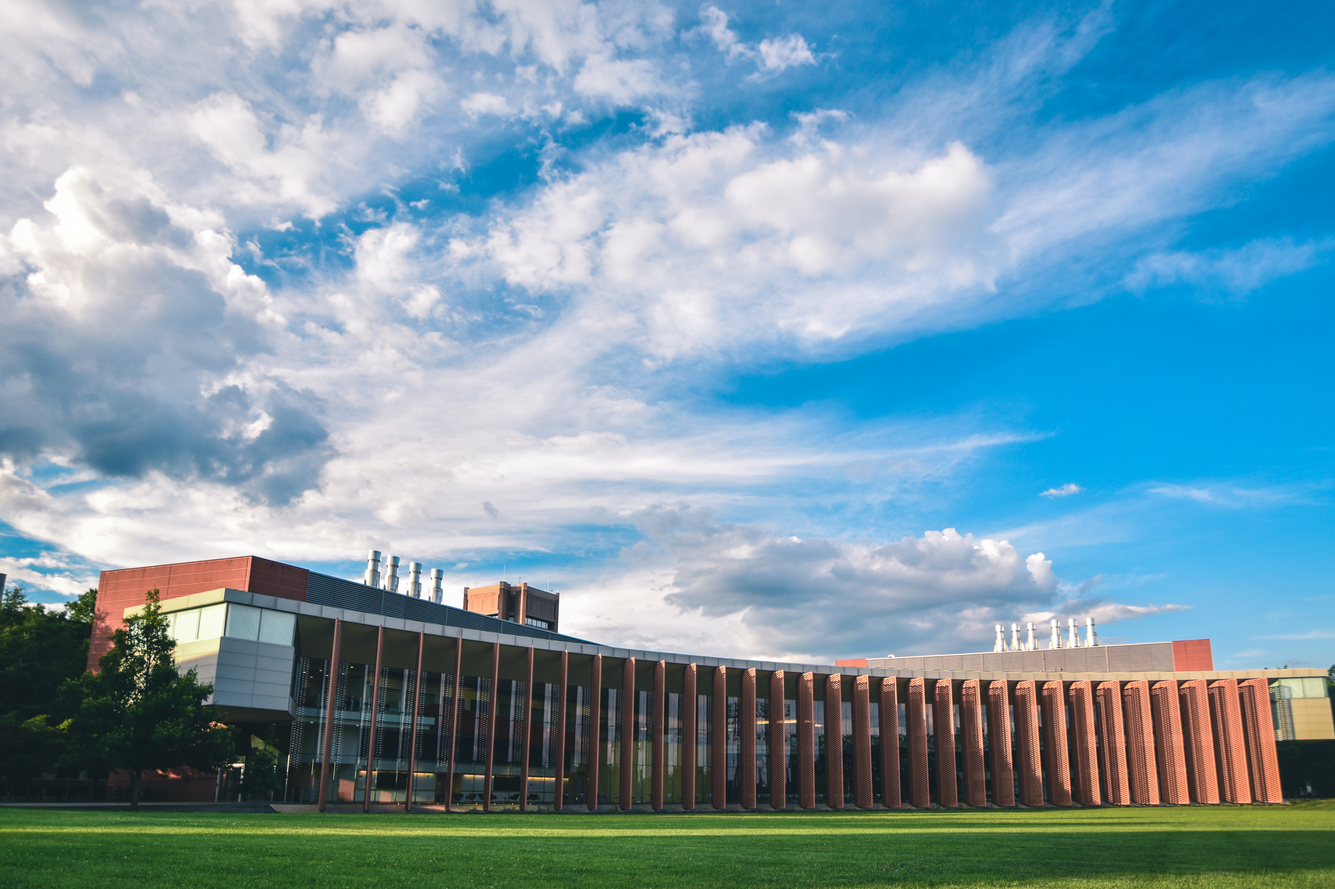
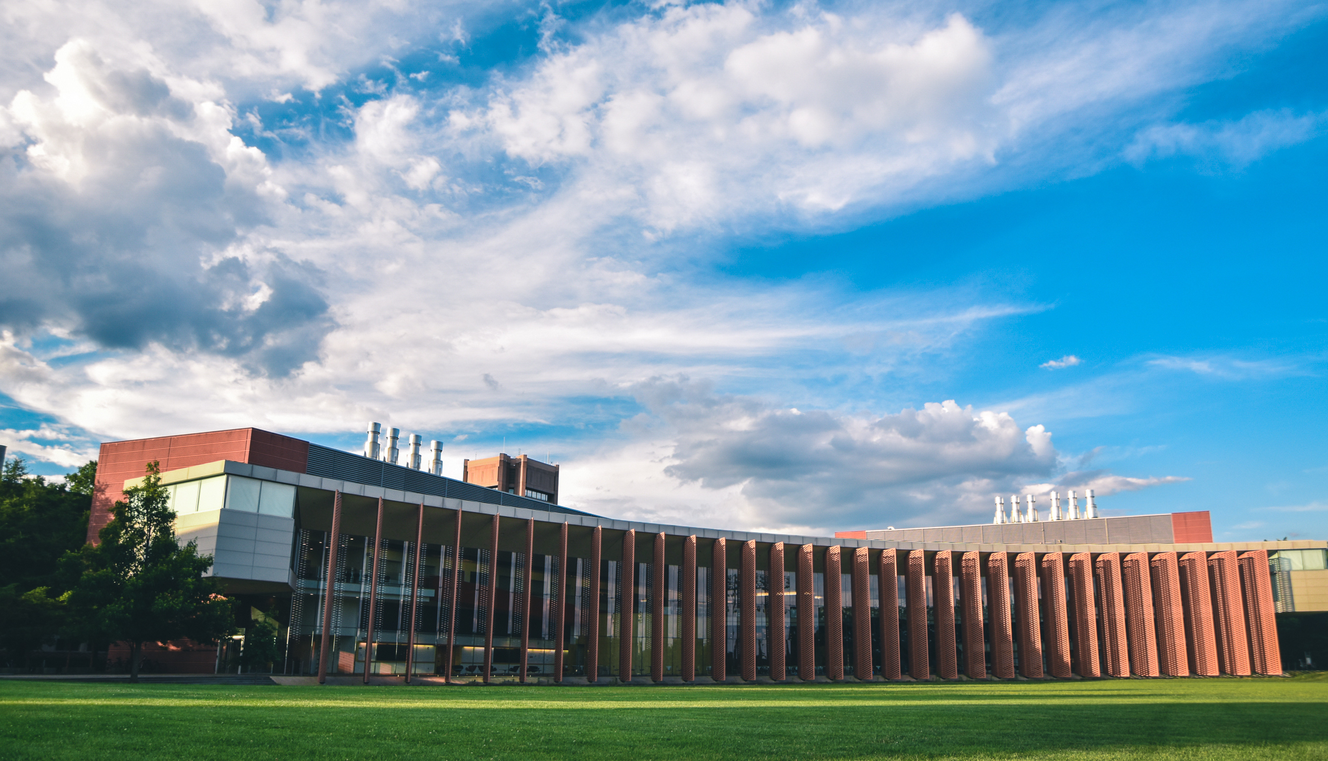
pruned navbar, changed background, added links, altered landing page

diff --git a/index.html b/index.html
@@ -67,7 +67,7 @@
         </div>
         <div id="navbar" class="navbar-collapse navbar-center collapse">
           <ul class="nav navbar-nav">
-            <li><a href="about.html">About</a></li>
+            <!-- <li><a href="about.html">About</a></li>
             <li class="dropdown"><a href="" data-toggle="dropdown" class="dropdown-toggle">Tournament Information <b class="caret"></b></a>
               <ul class="dropdown-menu">
                 <li><a href="awards.html">Awards Ceremony</a></li>
@@ -80,8 +80,8 @@
             </li>
             <li><a href="updates.html">Updates</a></li>
             <li><a href="team.html">The Team</a></li>
-            <li><a href="partners.html">Partners</a></li>
-            <li class="dropdown"><a href="past" data-toggle="dropdown" class="dropdown-toggle">Archive <b class="caret"></b></a>
+            <li><a href="partners.html">Partners</a></li>  -->
+            <li class="dropdown"><a href="past" data-toggle="dropdown" class="dropdown-toggle">Archive<b class="caret"></b></a>
               <ul class="dropdown-menu">
                 <li><a href="past-tests.html">Past Tests</a></li>
                 <li><a href="past/2017/index.html">2017 Site</a></li>
@@ -104,12 +104,14 @@
             <div class="row">
               <div class="col-lg-12">
                 <div class="content-slide">
-                  <h1 class="home-title">Princeton University</h1><br>
-                  <h1 class="home-title">Science Olympiad Invitational</h1>
-                  <h3 class="tournament-date">Coming February 10, 2018</h3><br>
+                  <h1 class="home-title">Princeton University<br/>Science Olympiad<br/>Invitational</h1>
+                  <!-- <h1 class="home-title">Princeton University</h1><br>
+                  <h1 class="home-title">Science Olympiad Invitational</h1> -->
+                  <h3 class="tournament-date">Stay tuned for 2019!</h3><br>
                   <div id="clock-countdown" class="animated bounceInDown" data-animation-delay="10000"></div>
-                  <a href="about.html"><button type="button" class="btn btn-main btn-orange">Learn More</button></a>
-                  <a href="dayof.html"><button type="button" class="btn btn-main btn-red">Day-Of Info</button></a>
+                  <p>Check out our previous years' competitions under the archive menu!</p>
+                  <!-- <a href="about.html"><button type="button" class="btn btn-main btn-orange">Learn More</button></a> -->
+                  <!-- <a href="dayof.html"><button type="button" class="btn btn-main btn-red">Day-Of Info</button></a> -->
                 </div>
               </div>
             </div>

diff --git a/past-tests.html b/past-tests.html
@@ -94,6 +94,11 @@
             <li><a href="https://www.dropbox.com/sh/1ty5q1157rd5uo0/AAD561wIEBSb728p0JcMy4rua?dl=0" target="_blank">Full tests and solutions with raw scores</a></li>
             <li><a href="https://www.facebook.com/pg/princetonscioly/photos/?tab=album&album_id=258292677930754" target="_blank">Photos</a></li>
           </ul>
+          <h2 class="section-subtitle">2018</h2>
+          <ul>
+            <li><a href="https://www.dropbox.com/sh/26udqtjmuhve046/AAAm9X6eIzqTvWqjlMlOl8dFa?dl=0" target="_blank">Full tests and solutions with raw scores</a></li>
+            <li><a href="https://www.facebook.com/pg/princetonscioly/photos/?tab=album&album_id=407535093006511" target="_blank">Photos</a></li>
+          </ul>
         </div>
       </div>
     </div>

diff --git a/past/2018/index.html b/past/2018/index.html
@@ -83,6 +83,7 @@
             <li><a href="partners.html">Partners</a></li>
             <li class="dropdown"><a href="past" data-toggle="dropdown" class="dropdown-toggle">Archive <b class="caret"></b></a>
               <ul class="dropdown-menu">
+                <li><a href="../../index.html">Current Site</a></li>
                 <li><a href="past-tests.html">Past Tests</a></li>
                 <li><a href="../../past/2017/index.html">2017 Site</a></li>
                 <li><a href="../../past/2018/index.html">2018 Site</a></li>

diff --git a/js/countdown/main.js b/js/countdown/main.js
@@ -66,7 +66,7 @@
 		======================================*/
 		
 		//Image Background 
-		$(".image-background").backstretch("img/artmuseum.jpg");
+		$(".image-background").backstretch("img/icahn-shorter.jpg");
 		
 		
 		/*====================================

diff --git a/css/main.css b/css/main.css
@@ -308,8 +308,12 @@ ul.sub-bullet {
 }
 
 .home-title {
-  font-size: 54px;
+  font-size: 70px;
+  font-weight: bold;
+  /* text-align: left; */
   display: inline;
+  /* display: block; */
+  /* padding-left: 15vw; */
   color: #FFFFFF;
 }
 
